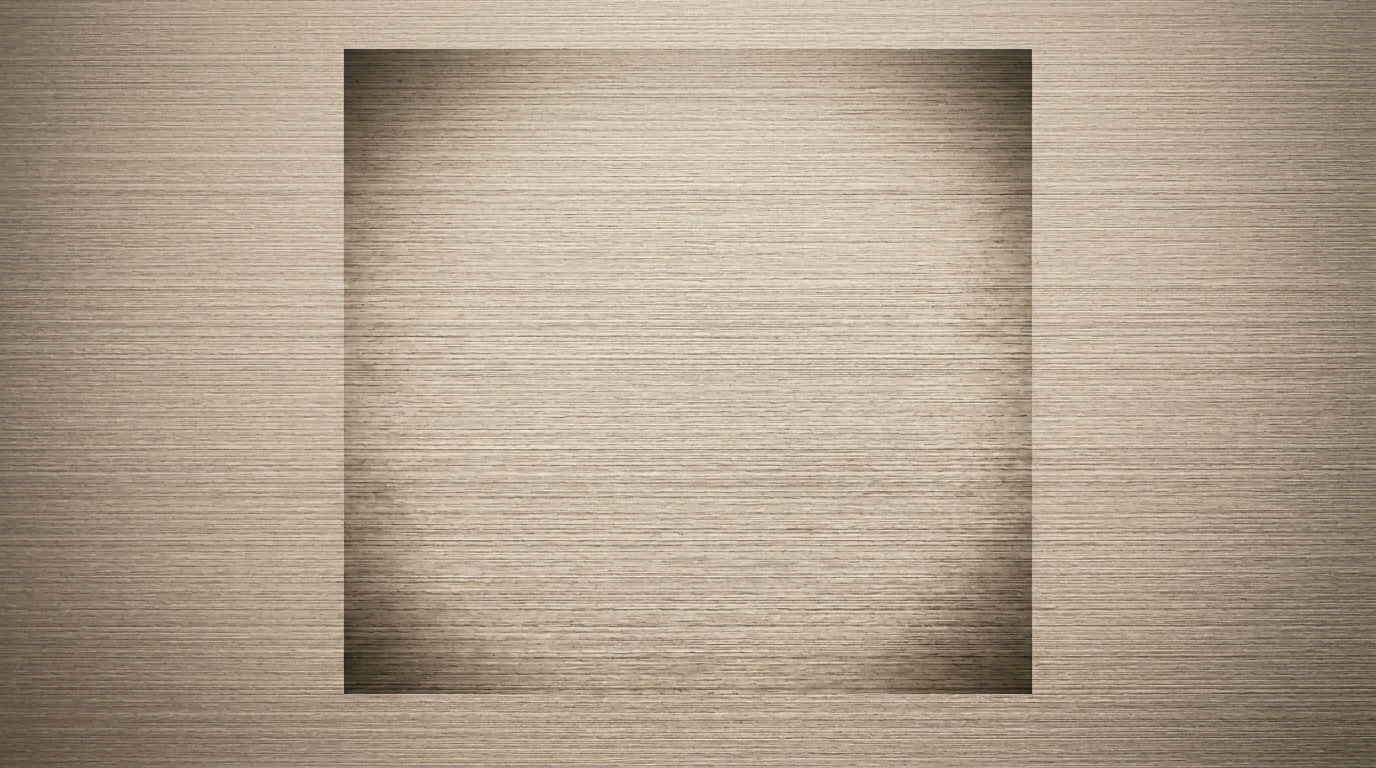
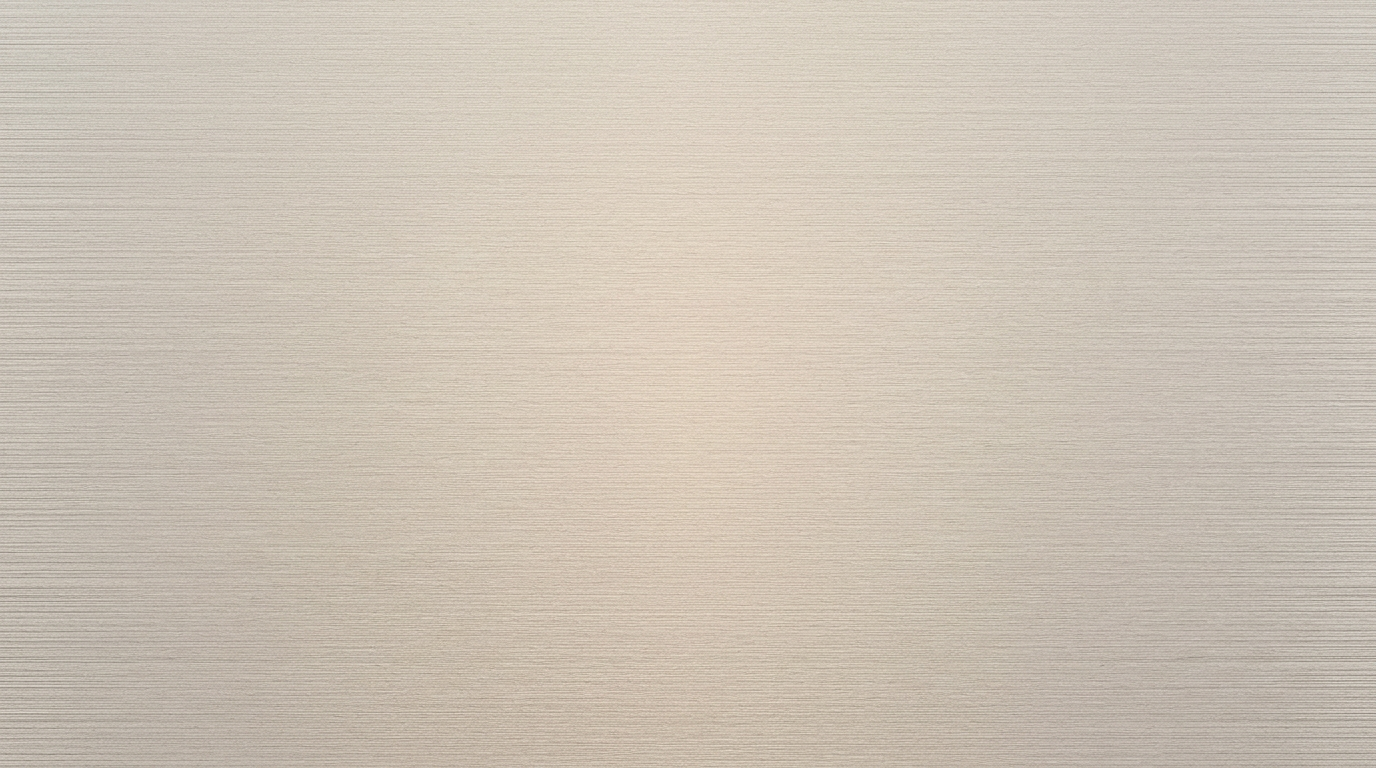
Hairline Clear preview: seamless swatch texture and cleaner 3D face.
- Replace hairline-clear-jy-h100.png with full-bleed brushed texture (no inset frame).
- Softer front-face gradient on textured swatches; hide inner border when using swatch image so panel preview matches the material.

diff --git a/src/components/AcmPanel3DPreview.tsx b/src/components/AcmPanel3DPreview.tsx
@@ -87,7 +87,8 @@ export function AcmPanel3DPreview({
           width: scaled.faceW,
           height: scaled.faceH,
           borderColor,
-          backgroundImage: `linear-gradient(145deg, rgba(255,255,255,0.14) 0%, transparent 38%, rgba(0,0,0,0.18) 100%), ${url}`,
+          /** Light wash only so the swatch texture reads clearly (no heavy vignette on face). */
+          backgroundImage: `linear-gradient(145deg, rgba(255,255,255,0.12) 0%, transparent 40%, rgba(0,0,0,0.06) 100%), ${url}`,
           backgroundSize: "cover, cover",
           backgroundPosition: "center, center",
           backgroundRepeat: "no-repeat, no-repeat",
@@ -159,7 +160,7 @@ export function AcmPanel3DPreview({
             <div style={sideStyle} />
             <div style={frontStyle}>
               <div style={staticStyles.panelGloss} />
-              <div style={staticStyles.panelInnerBorder} />
+              {!panelSwatchImage ? <div style={staticStyles.panelInnerBorder} /> : null}
             </div>
           </div>
         </div>
